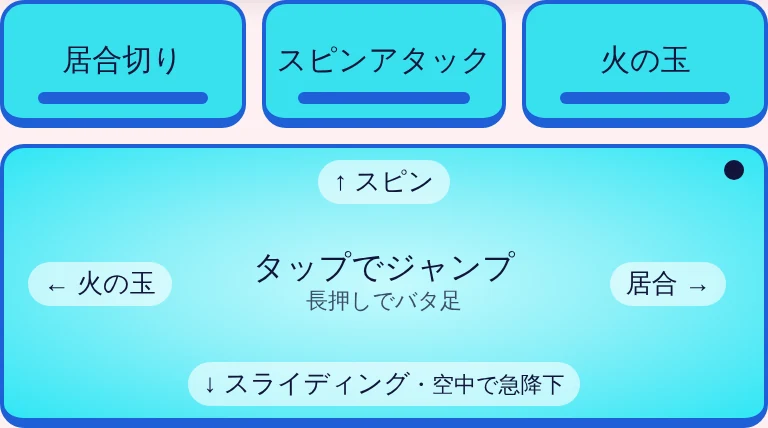
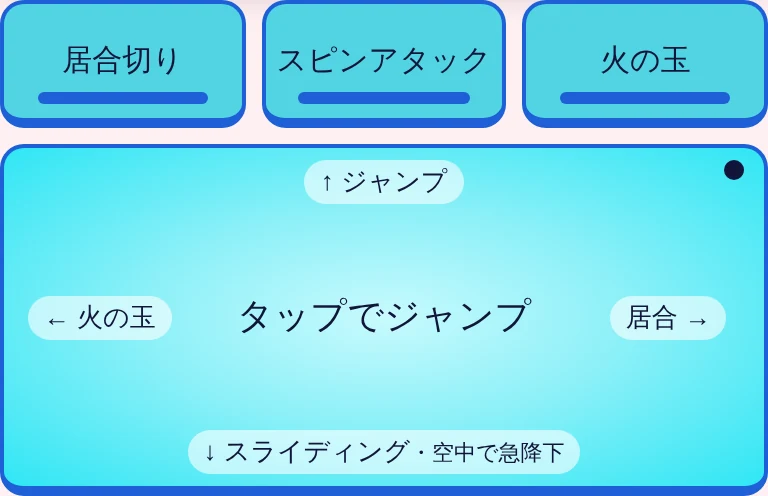
きょうりゅうラン: タップモードの上スワイプをジャンプに・ジャンプの待ち時間を短く
- 上へスワイプもジャンプ（上へ動いたらすぐ跳ぶ）。スキル②は上のボタンで使う
- タップかスワイプかを見分ける時間を 90→40ms、スワイプと決める距離を 18→10px に（押しっぱなしのジャンプが早く出る）
- 「長押しでバタ足」は、バタ足ジャンプを覚えてから出す
- あそびかたの「タップでそうさ」の文と絵を合わせた

Claude-Session: https://claude.ai/code/session_01HRXUjgfyZk5JgspE8yQJWF

diff --git a/minigame/assets/dinorun.js b/minigame/assets/dinorun.js
@@ -260,10 +260,11 @@ function drBuildPads() {
           <span class="dr-key">↓（空中）</span><span class="dr-btn-label">急降下<small>（空中で）</small></span></span>
       </button>`;
     // タップエリア（タップモードのとき、ジャンプ・スライディングのボタンのかわりに出る）
-    //   まん中をタップ（長押し）でジャンプ、上下左右にスワイプでスライディング・スキル。まわりの文字は「どっちにスワイプすると何が出るか」
+    //   まん中をタップ（長押し）・上へスワイプでジャンプ、下・右・左へスワイプでスライディング・スキル①③。まわりの文字は「どっちにスワイプすると何が出るか」
+    //   「長押しでバタ足」は、バタ足ジャンプを覚えたら出る（.has-flutter）
     //   .dr-tap-run はふだん、.dr-tap-battle はフェイズ（バトル）中に出る文字
     html += `<div class="dr-tap-area" role="button" aria-label="タップでジャンプ。スワイプでスライディングとスキル">
-        <span class="dr-tap-hint is-up" data-dir="up" data-slot="1">↑ <b class="dr-tap-name dr-tap-run">スキル②</b><b class="dr-tap-battle">技2</b></span>
+        <span class="dr-tap-hint is-up" data-dir="up">↑ <b><span class="dr-tap-run">ジャンプ</span><span class="dr-tap-battle">ふみつけ</span></b></span>
         <span class="dr-tap-hint is-left" data-dir="left" data-slot="2">← <b class="dr-tap-name dr-tap-run">スキル③</b><b class="dr-tap-battle">技3</b></span>
         <span class="dr-tap-center"><span class="dr-tap-run">タップでジャンプ<small>長押しでバタ足</small></span><span class="dr-tap-battle">タップでふみつけ</span></span>
         <span class="dr-tap-hint is-right" data-dir="right" data-slot="0"><b class="dr-tap-name dr-tap-run">スキル①</b><b class="dr-tap-battle">技1</b> →</span>
@@ -327,17 +328,18 @@ function drBindInput() {
 }
 
 /* ---------- タップモード ----------
-   タップエリアに指を置いたら、tapDecideMs ミリ秒のあいだ様子を見る:
-     swipeDist 以上動いた → スワイプ（向きで スライディング・スキル①②③）
-     動かずに離した、または時間が過ぎた → タップ（ジャンプ。押したままならバタ足）
+   タップエリアに指を置いたら、tapDecideMs ミリ秒（2〜3フレーム）だけ様子を見る:
+     下・右・左へ swipeDist 以上動いた → スワイプ（下 … スライディング・急降下 / 右 … スキル① / 左 … スキル③）
+     上へ少しでも動いた・動かずに離した・時間が過ぎた → ジャンプ（押したままならバタ足）
+   スワイプは指を置いた瞬間から速く動くので、短い時間で見分けられる（ジャンプが遅れて感じないように、待つ時間は短くしている）
    ジャンプしたあと、指を置いたまま大きく動かしたら、そのスワイプも1回だけ使える（ジャンプ → 下へスワイプで急降下 など） */
 function drBindTapArea(pads) {
   const C = DR_CONFIG;
   const touches = new Map();   // pointerId → { x, y, state: 'wait' | 'tap' | 'done', timer, area }
   const actFor = dir => {
     if (dir === 'down') return 'slide';
-    const n = { right: 0, up: 1, left: 2 }[dir];
-    return dr.mode === 'phase' ? 'pskill' + n : 'skill' + n;   // バトル中は、その技のボタン（左から順に①②③）
+    const n = { right: 0, left: 2 }[dir];
+    return dr.mode === 'phase' ? 'pskill' + n : 'skill' + n;   // バトル中は、その技のボタン（左から1番目・3番目）
   };
   const flash = (area, dir) => {
     const h = area.querySelector(`.dr-tap-hint[data-dir="${dir}"]`);
@@ -364,10 +366,15 @@ function drBindTapArea(pads) {
     if (!t || t.state === 'done') return;
     t.lx = e.clientX; t.ly = e.clientY;
     const ox = t.state === 'tap' ? t.ax : t.x, oy = t.state === 'tap' ? t.ay : t.y;
-    const dx = e.clientX - ox, dy = e.clientY - oy;
-    const need = t.state === 'tap' ? C.swipeDist * 1.5 : C.swipeDist;   // ジャンプのあとは少し大きく動かしたときだけ
-    if (Math.hypot(dx, dy) < need) return;
+    const dx = e.clientX - ox, dy = e.clientY - oy, dist = Math.hypot(dx, dy);
     const dir = Math.abs(dx) > Math.abs(dy) ? (dx > 0 ? 'right' : 'left') : (dy > 0 ? 'down' : 'up');
+    // 上へ動いた：すぐにジャンプ（もうジャンプしていたら何もしない）
+    if (dir === 'up') {
+      if (t.state === 'wait' && dist >= 4) { clearTimeout(t.timer); flash(t.area, 'up'); tap(e.pointerId, t); }
+      return;
+    }
+    const need = t.state === 'tap' ? C.swipeDist * 2.5 : C.swipeDist;   // ジャンプのあとは、大きく動かしたときだけ（急降下など）
+    if (dist < need) return;
     clearTimeout(t.timer);
     if (t.state === 'tap') dr.jumpHeld.delete('p' + e.pointerId);   // バタ足もやめる
     t.state = 'done';
@@ -2038,6 +2045,12 @@ function drUpdatePads() {
       dh.querySelector('.dr-half-fill').style.width = diveRatio * 100 + '%';
     });
     document.querySelectorAll('.dr-tap-area').forEach(a => a.classList.toggle('has-dive', !!dive));
+  }
+  // タップエリアの「長押しでバタ足」は、バタ足ジャンプを覚えたら出す
+  const flutter = !!(run && run.flutterTime > 0);
+  if (dr.uiCache.flutter !== flutter) {
+    dr.uiCache.flutter = flutter;
+    document.querySelectorAll('.dr-tap-area').forEach(a => a.classList.toggle('has-flutter', flutter));
   }
   drUpdateEffectBars(run);
 }

diff --git a/minigame/assets/dinorun-config.js b/minigame/assets/dinorun-config.js
@@ -39,12 +39,14 @@ const DR_CONFIG = {
   slideBuffer: 0.15,       // 空中で押したとき、この秒数以内に着地したら着地と同時にすべる
 
   /* --- タップモード（スマホ。ジャンプ・スライディングのボタンのかわりに、1つの大きな「タップエリア」で操作する） ---
-       タップ（長押し）… ジャンプ（バタ足）/ 下へスワイプ … スライディング・急降下
-       右へスワイプ … スキル① / 上へスワイプ … スキル② / 左へスワイプ … スキル③
-       指を置いてから tapDecideMs ミリ秒のあいだに swipeDist ドット（画面の点）以上動いたらスワイプ、動かなければタップ（ジャンプ）。
-       tapDecideMs を小さくするとジャンプが早く出るが、スワイプのつもりがジャンプになりやすい */
-  tapDecideMs: 90,
-  swipeDist: 18,
+       タップ・上へスワイプ（長押し）… ジャンプ（バタ足）/ 下へスワイプ … スライディング・急降下
+       右へスワイプ … スキル① / 左へスワイプ … スキル③（スキル②は上のボタンで）
+       指を置いてから tapDecideMs ミリ秒のあいだに swipeDist ドット（画面の点）以上 下・右・左へ動いたらスワイプ、
+       動かなければ（または上へ動いたら、すぐに）ジャンプ。
+       tapDecideMs を小さくするとジャンプが早く出るが、ゆっくりスワイプしたときにジャンプになりやすい。
+       swipeDist を小さくするとスワイプが早く決まるが、指のぶれでスワイプになりやすい */
+  tapDecideMs: 40,
+  swipeDist: 10,
   stumbleTime: 0.45,       // クールタイム中のスキルを使おうとしたときに「おっとと」とよろける時間（秒）
   // バタ足ジャンプ（パッシブ。浮いていられる秒数は dinorun-items.js の flutter アイテムで決める）
   //   ジャンプボタンを押しっぱなしにすると、ジャンプのいちばん高いところでバタ足して、その高さのまま浮く

diff --git a/minigame/assets/dinorun.css b/minigame/assets/dinorun.css
@@ -259,7 +259,8 @@ body.dr-header-hidden #dr-root { --dr-header-h: 0px; }
 .dr-tap-hint.is-fired { animation: drTapFire 0.35s ease-out; }
 @keyframes drTapFire { 0% { background: var(--dr-yellow); transform: scale(1.2); opacity: 1; } 100% { transform: scale(1); } }
 .dr-tap-center { grid-column: 2; grid-row: 2; text-align: center; font-size: 16px; line-height: 1.25; white-space: nowrap; pointer-events: none; }
-.dr-tap-center small { display: block; font-size: 11px; opacity: 0.75; }
+.dr-tap-center small { display: none; font-size: 11px; opacity: 0.75; }
+.dr-tap-area.has-flutter .dr-tap-center small { display: block; }   /* バタ足ジャンプを覚えたら出す */
 .dr-tap-area > * { pointer-events: none; }   /* 文字の上を押しても、エリア全体で受け取る */
 .dr-tap-battle { display: none; }
 #dr-root.dr-in-phase .dr-tap-run { display: none; }

diff --git a/minigame/assets/dinorun-howto.js b/minigame/assets/dinorun-howto.js
@@ -60,7 +60,7 @@ const DR_HOWTO_PAGES = [
   },
   {
     tab: 'control', title: 'タップでそうさ（スマホ）', image: 'dinorun/howto/tap.webp',
-    text: '大きなエリアを<b>タップ</b>でジャンプ。<b>下へスワイプ</b>でスライディング、<b>右・上・左</b>でスキル①②③！',
+    text: '大きなエリアを<b>タップ</b>（上へスワイプ）でジャンプ。<b>下へスワイプ</b>でスライディング、<b>右・左</b>でスキル①③！',
     key: '右上の「操作」ボタンで、ボタンでのそうさに切りかえられるよ',
   },
   /* --- アイテム --- */
